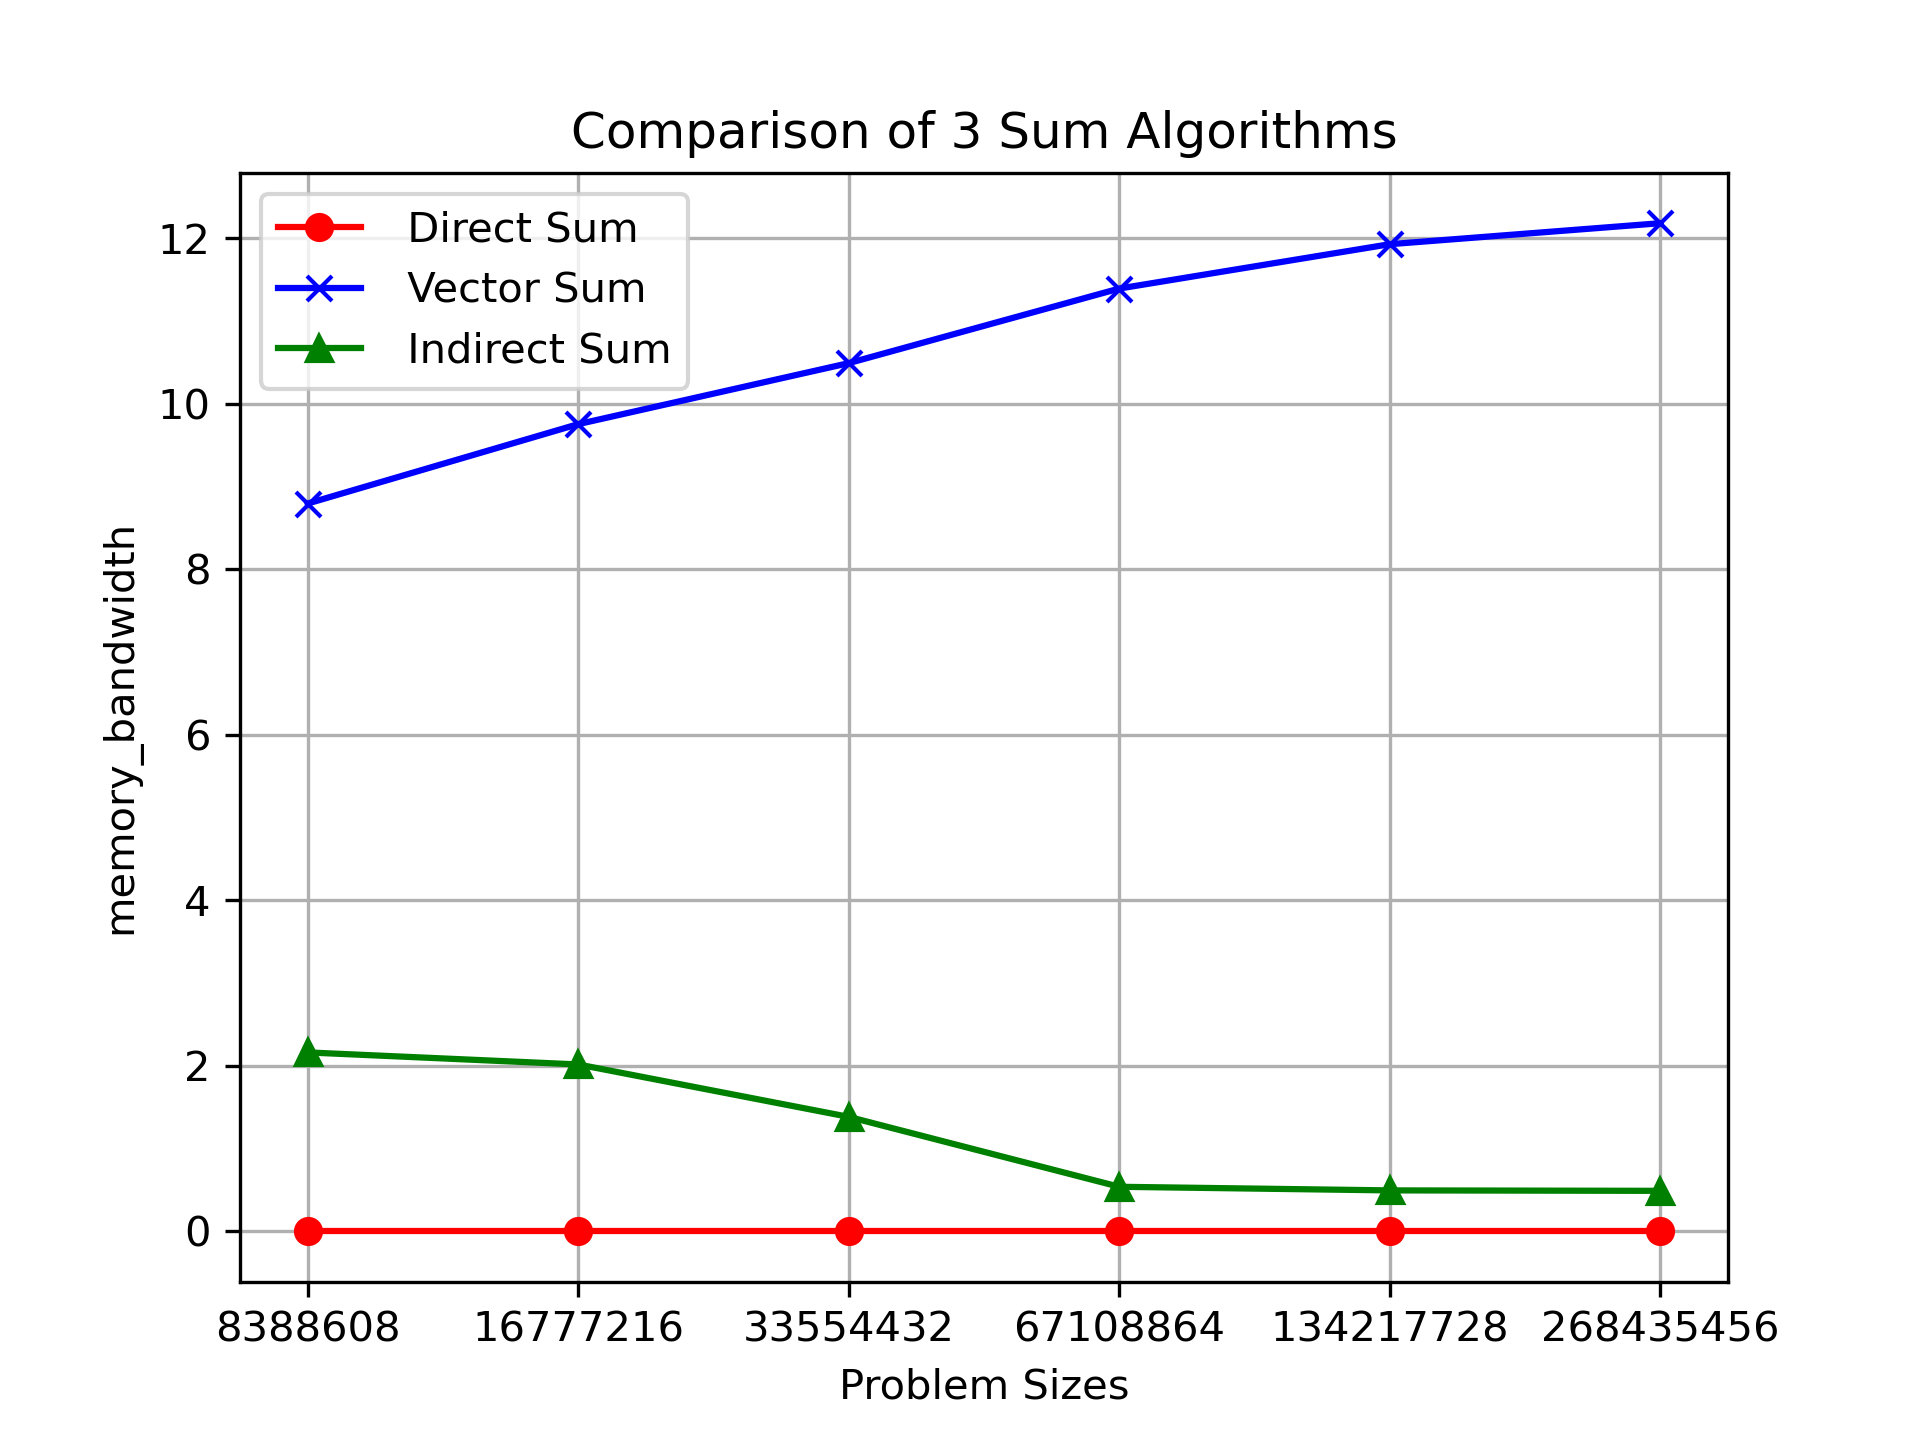
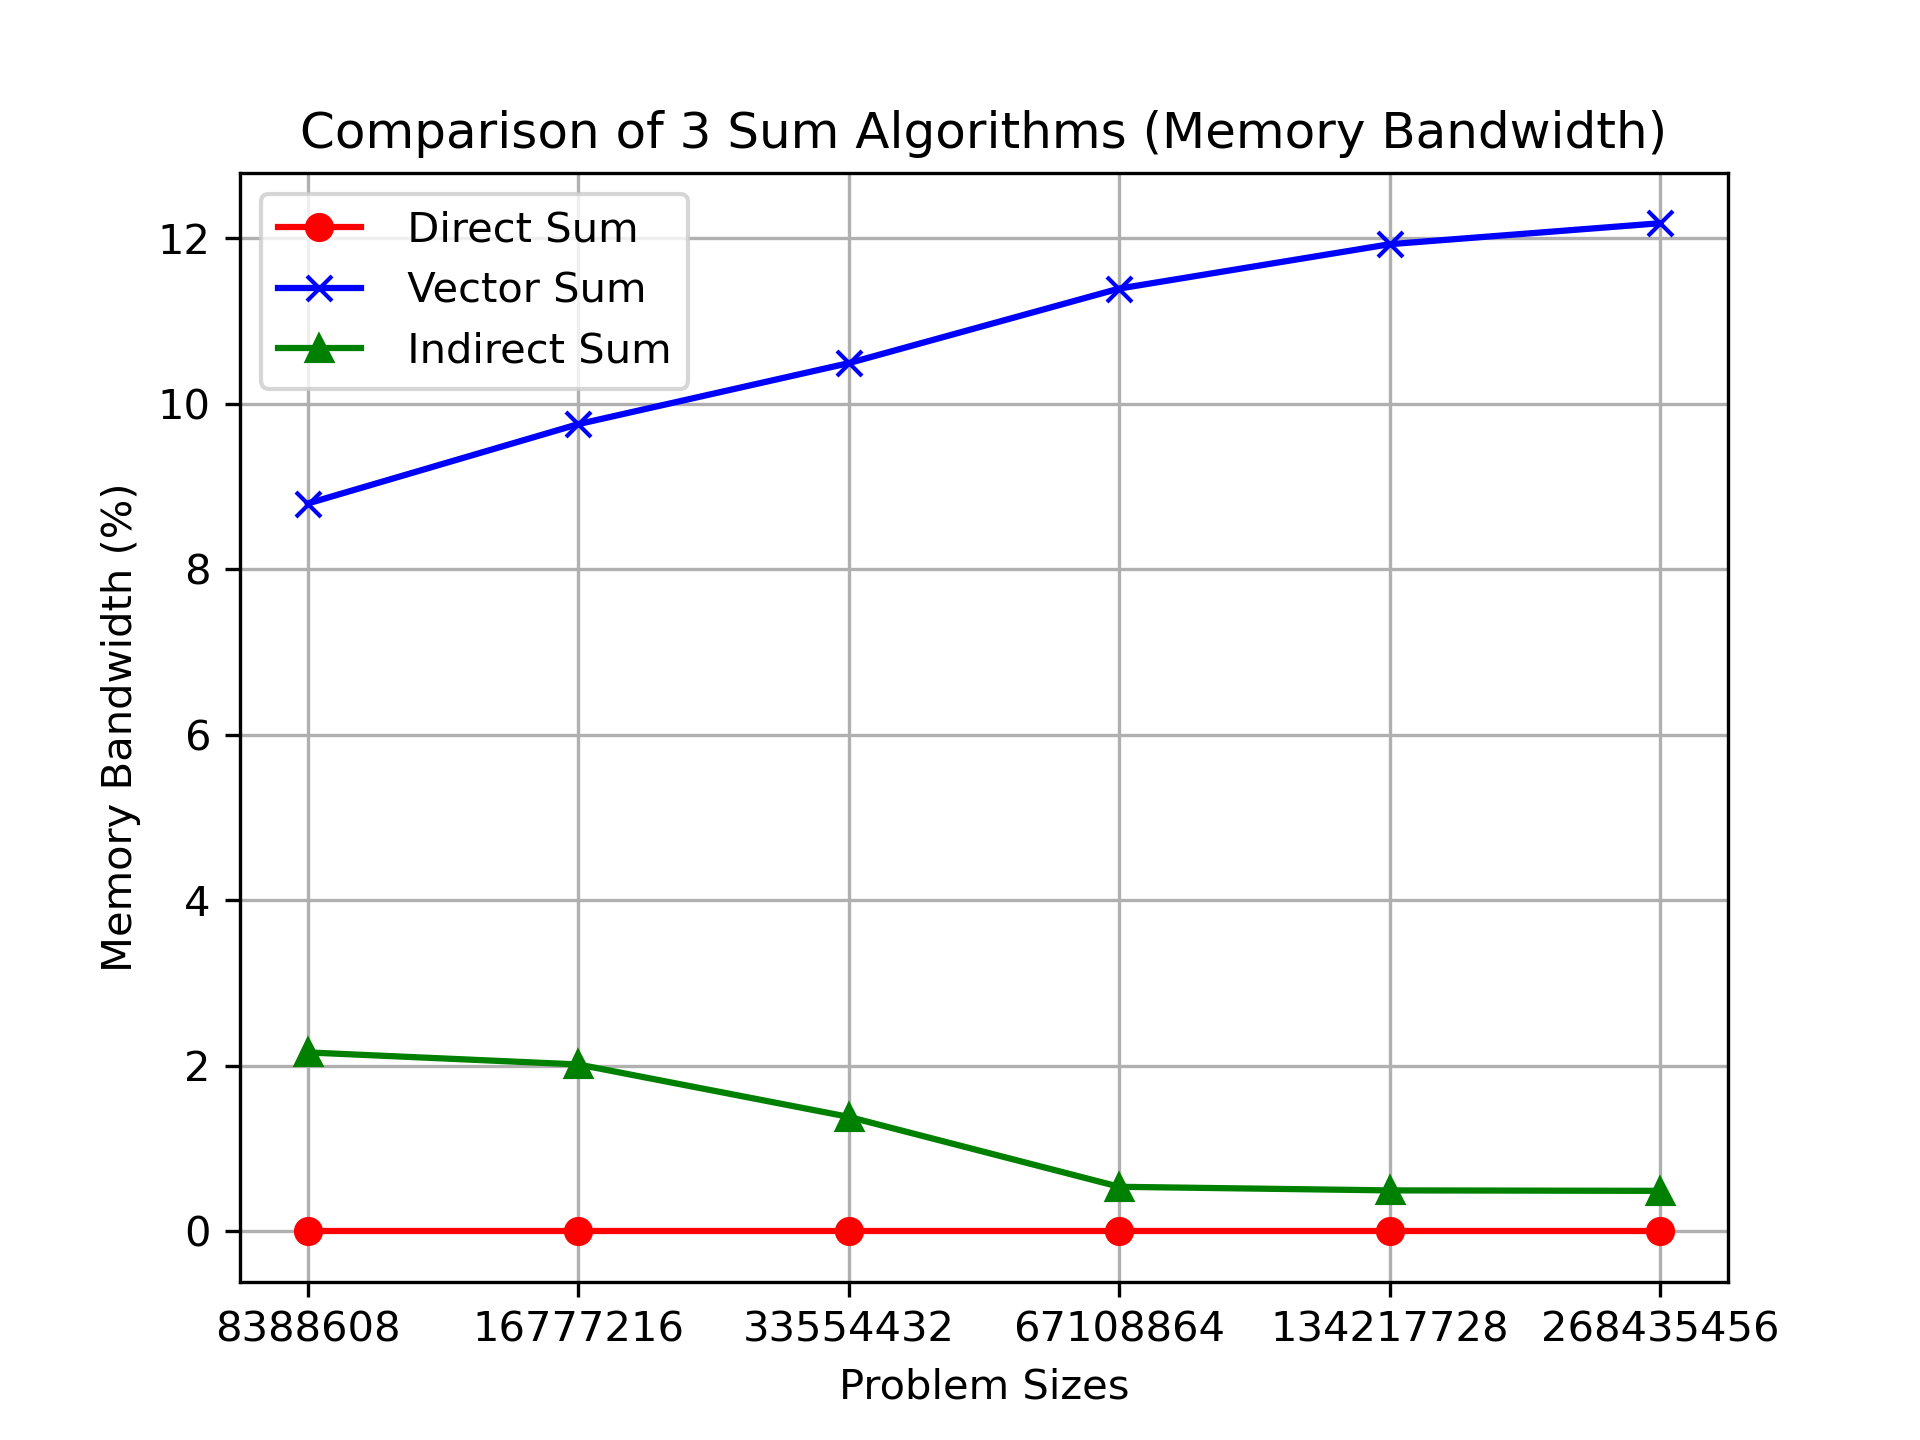
update charts for MFLOPS and memory bandwidth

Changed region(s): [[0.1562, 0.0625, 0.875, 0.125], [0.0312, 0.3438, 0.0938, 0.6562]]

diff --git a/plot_3vars_savefig.py b/plot_3vars_savefig.py
@@ -43,7 +43,8 @@ code3_time = df[var_names[3]].values.tolist()
 
 plt.figure()
 
-plt.title("Comparison of 3 Sum Algorithms")
+# plt.title("Comparison of 3 Sum Algorithms (MFLOPS)")
+plt.title("Comparison of 3 Sum Algorithms (Memory Bandwidth)")
 
 xlocs = [i for i in range(len(problem_sizes))]
 
@@ -58,7 +59,8 @@ plt.plot(code3_time, "g-^")
 
 plt.xlabel("Problem Sizes")
 # plt.ylabel("runtime")
-plt.ylabel("memory_bandwidth")
+plt.ylabel("Memory Bandwidth (%)")
+# plt.ylabel("MFLOPS")
 
 varNames = [var_names[1], var_names[2], var_names[3]]
 plt.legend(varNames, loc="best")
